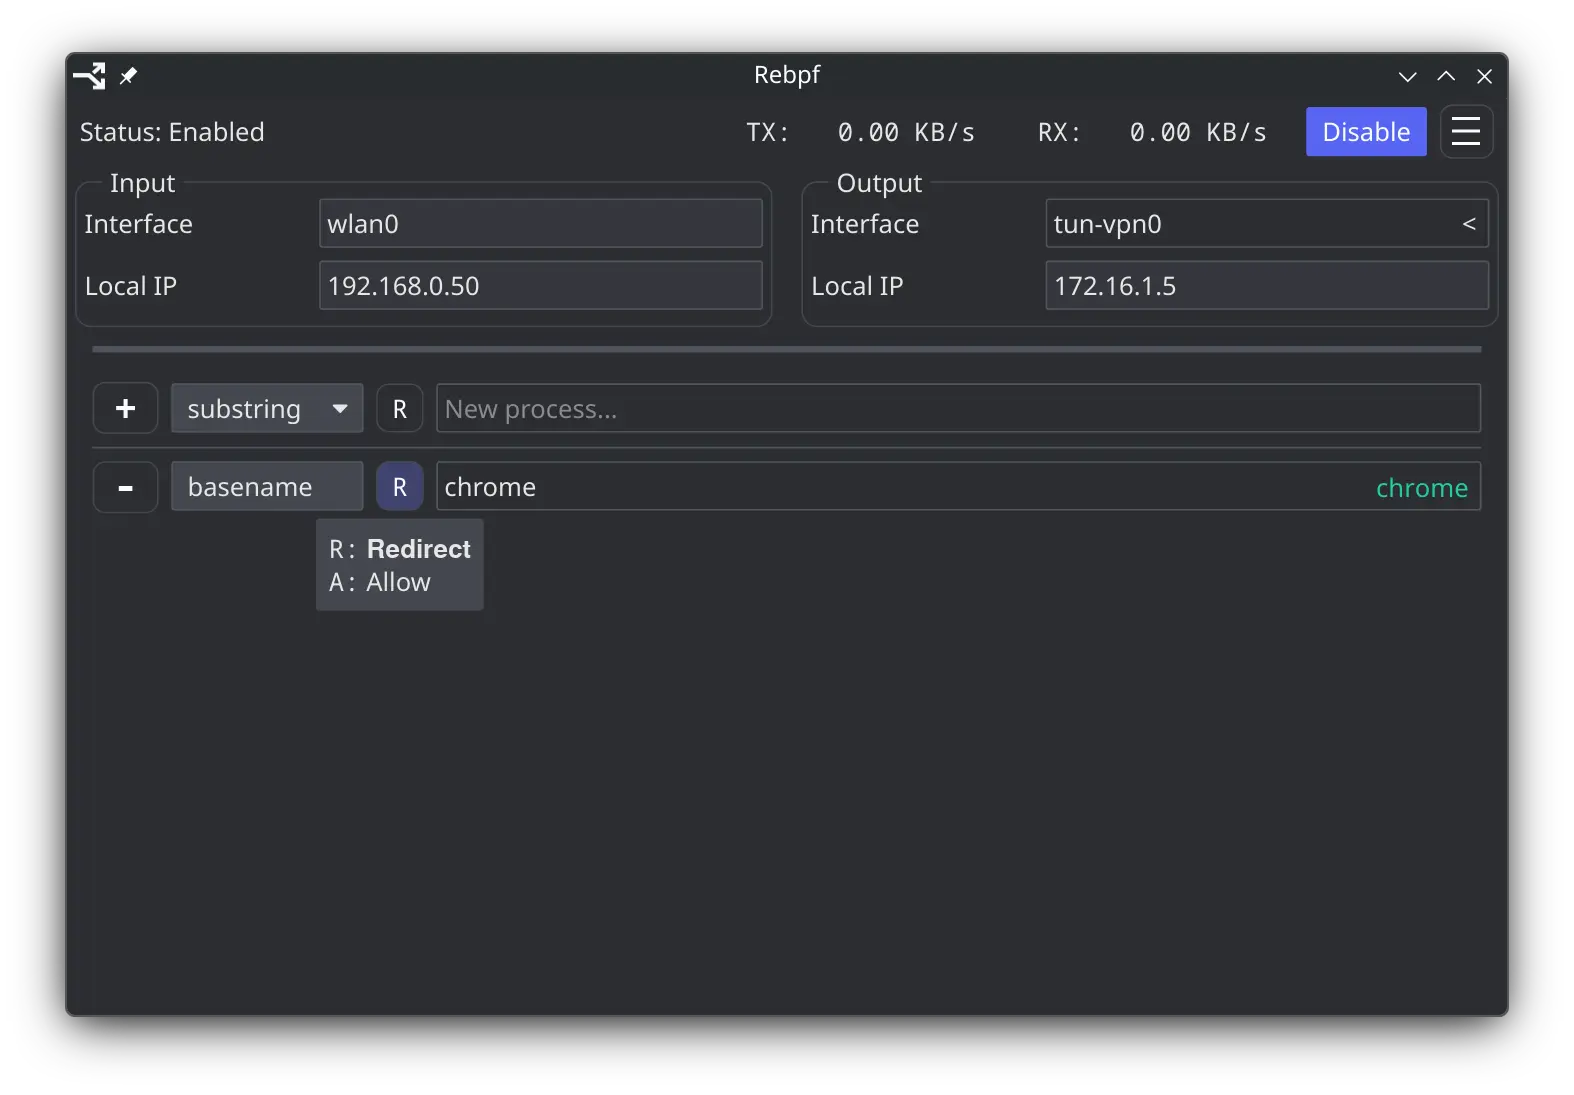
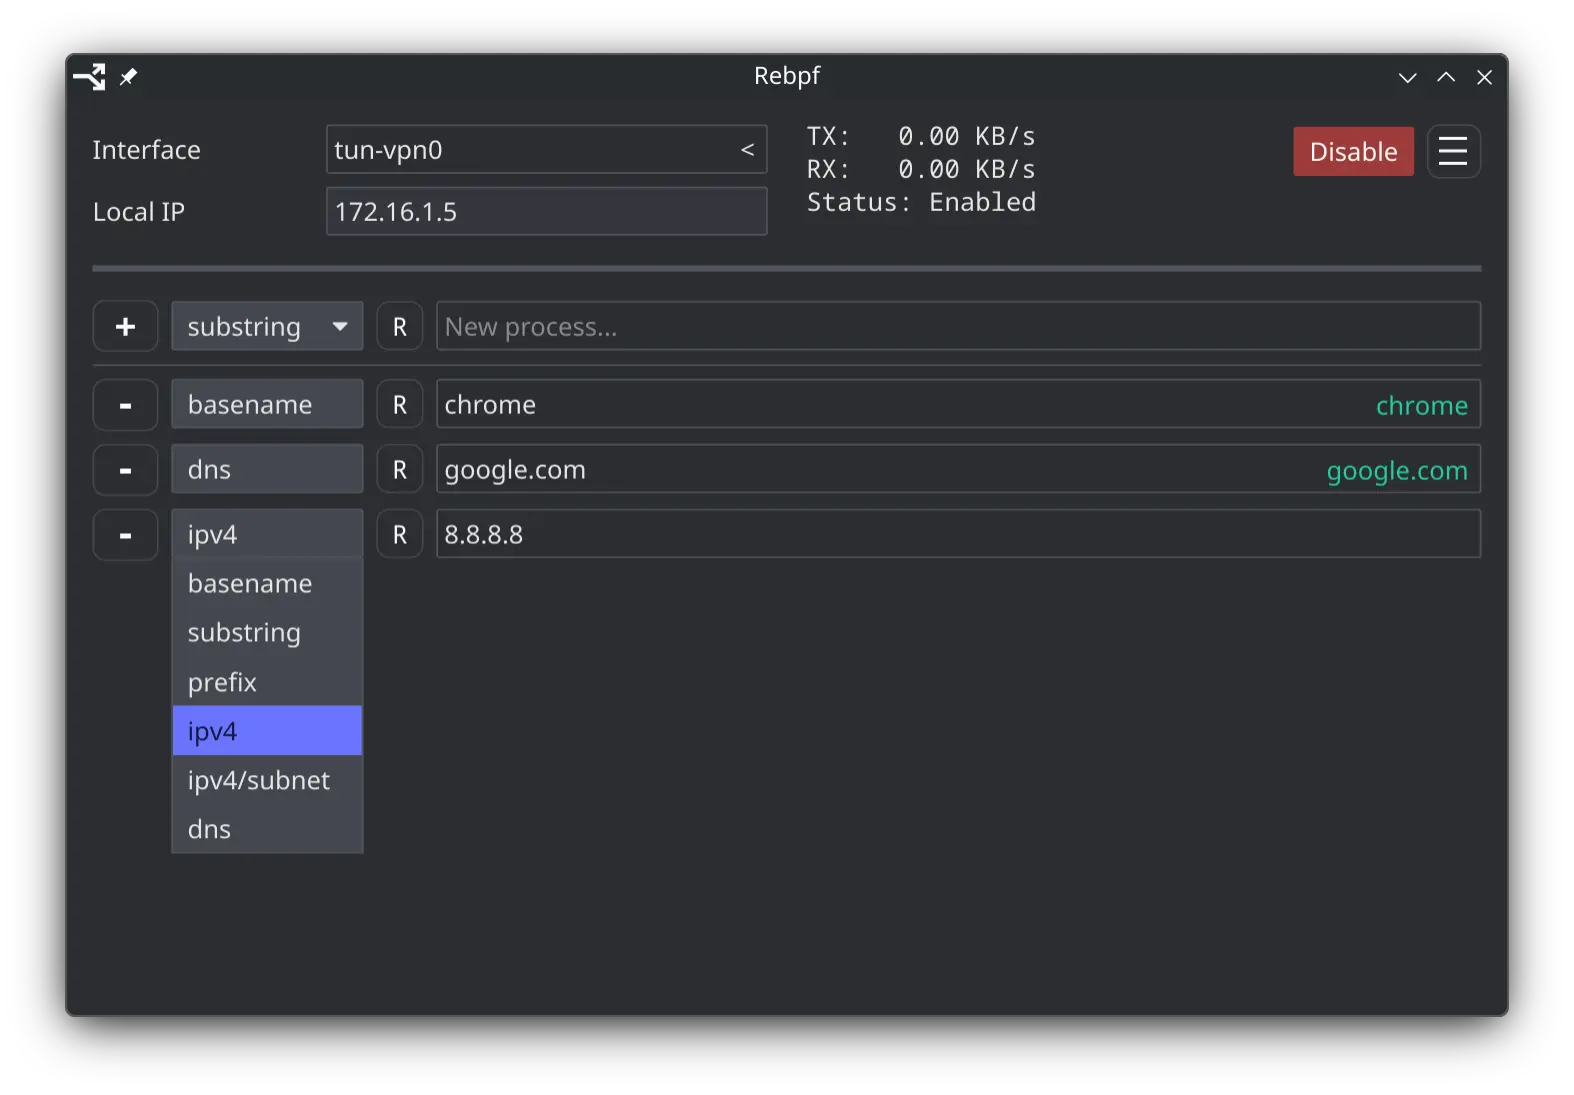
Update readme

Changed region(s): [[0.0311, 0.0932, 0.9339, 0.7763], [0.716, 0.0932, 0.9339, 0.1863], [0.6537, 0.0932, 0.6849, 0.1242]]

diff --git a/README.md b/README.md
@@ -9,7 +9,8 @@
 
 ## Features
 
-- Redirect traffic of specific applications to a specific interface, e.g. in or around a VPN.
+- Redirect traffic of a specific applications, IP or DNS address to a specific
+interface, e.g. in or around a VPN.
 - Without affecting the network configuration of any other program.
 - Instantly changing settings through the GUI app, no need to restart your apps!
 - Using D-Bus interface for integrations and CLI.
@@ -100,68 +101,48 @@ sweep existing sockets using [`iter/task_file`].
 [`cgroup/sock_create`]: https://docs.ebpf.io/linux/program-type/BPF_PROG_TYPE_CGROUP_SOCK
 [`iter/task_file`]: https://docs.ebpf.io/linux/program-type/BPF_PROG_TYPE_TRACING
 
-Once we've obtained a socket, the most convenient method to redirect traffic
-would be to use socket marks to tell the existing kernel routing code to
-redirect it to where it needs to go. A privileged userspace application can set
-a 32bit SO_MARK on its socket which in turn could be matched dedicated firewall
-rules or routing tables, allowing routing such packet via a dedicated
-interface. Stateful connection tracking is already there, needed for the
-correct treatment of ingress packets.
+Once we have a socket, the most convenient method to redirect traffic is to
+tell the existing kernel code to do it. A privileged userspace application can
+set an arbitrary 32bit [SO_MARK] on its sockets which in turn could be picked
+up by dedicated firewall and routing rules. In this case, stateful connection
+tracking, needed to correctly associate the ingress packets with the socket, is
+already done by the kernel.
 
-But there is a problem. We can't just set a mark for an arbitrary userspace
-program's socket from an eBPF program (or even from a userspace daemon). As you
-already know, eBPF programs are only allowed to modify kernel state in places
-where the program type is explicitly allows it to. And, unfortunately, as of
-Linux 7.0 eBPF programs can only set marks on TCP sockets for already existing
-sockets, missing out on UDP and raw IP sockets, used by ping command to send
-ICMP messages, which is unacceptable.
+[SO_MARK]: https://www.man7.org/linux/man-pages/man7/socket.7.html
 
-Instead of marking a socket, we could try marking individual packets leaving a
-socket, as they still can be traced to the originating socket. Unfortunately,
-again, all the hooks on this path are either triggered after a route has
-already been selected by Netfilter, or barred from modifying any socket state
-like [Netfilter hook].
+During normal operation the eBPF program can set socket marks on a newly
+created sockets using [bpf_setsockopt()] available to [`cgroup/sock_create`]
+programs. While during startup or after a change in configuration, it can
+iterate over all the opened sockets using [`iter/task_file`] and send matched
+process's info to the userspace daemon which can use [pidfd_getfd(2)] syscall
+to set a mark on an already existing socket.
 
-[netfilter hook]: https://docs.ebpf.io/linux/program-type/BPF_PROG_TYPE_NETFILTER
+[bpf_setsockopt()]: https://docs.ebpf.io/linux/helper-function/bpf_setsockopt/
+[pidfd_getfd(2)]: https://www.man7.org/linux/man-pages/man2/pidfd_getfd.2.html
 
-Thus, the we have to resort to redirecting packets ourselves, which is ugly and
-error prone as we have to patch up payloads of l2 (ethernet src/dst mac), l3
-(ip src/dst addresses, checksum), and even l4 (udp and tcp checksums). While
-being unable to use kernel connection state tracking (conntrack), and ARP
-neighbor discovery.
+The network configuration is dynamic. When a network device disappears, its
+routing entries are removed automatically and need to be reconfigured when the
+device reappears. Linux notifies userspace of the changes in network
+configuration using multicast netlink. The daemon listens to these changes to
+know when to update the routing rules, especially when Rebpf is configured to
+allow LAN connectivity and has to actively mirror the state of the main routing
+table for selected processes.
 
-So far our program pipeline looks as follows:
+IP-based redirection is straightforward, the daemon simply creates the
+corresponding routing entries for them. Matching DNS addresses is more
+involved. When it's required, eBPF program checks ingress packets using
+[`tcx/ingress`] program and copies ones that look like originating from a DNS
+resolver into the userspace for processing. The daemon does the parsing and
+maintains the corresponding routing entries.
 
-- [`syscall`] - Read configuration from userspace, prune the list of tracked sockets.
-- [`iter/task_file`] - Sweep through all open sockets and check the processes holding it.
-- [`tcx/egress`] - Redirect all egress traffic from the tracked sockets to another user-specified interface.
-- [`tcx/ingress`] - Same thing, but redirect ingress traffic.
-
-[`syscall`]: https://docs.ebpf.io/linux/program-type/BPF_PROG_TYPE_SYSCALL
-[`iter/task_file`]: https://docs.ebpf.io/linux/program-type/BPF_PROG_TYPE_TRACING
-[`tcx/egress`]: https://docs.ebpf.io/linux/program-type/BPF_PROG_TYPE_SCHED_ACT
 [`tcx/ingress`]: https://docs.ebpf.io/linux/program-type/BPF_PROG_TYPE_SCHED_ACT
-
-To actually redirect a packet it's not enough to know only the interface name.
-We have to also keep track of a route it's going to take. For an egress
-interface, i.e. the interfaces with the default internet connection, the
-required parameters are: ifindex, mac address (l2), ip address (l3), and a mac
-address of the next hop, i.e. a mac address of a router. And similarly for the
-ingress device.
-
-Moreover, all of these attributes can and will change during the normal
-operation, for example, simply disconnecting your device from a network would
-remove the output device. Linux notifies userspace of such changes using
-multicast netlink messages. We track changes in: interfaces, ip adresses, and
-mac addresses of neighboring devices.
-
-A Rebpf daemon watches these changes and updates the eBPF program with new
-configuration when needed.
 
 </details>
 
 
 ## Installation
+
+Rebpf requires Linux kernel v7.0 or later.
 
 - Manual
   ```sh
@@ -204,6 +185,7 @@ configuration when needed.
 
 ## Contributing
 
+- `RUST_LOG=debug` or `--verbose` enables debug-logging.
 - All required dev packages are collected in [./shell.nix], run `nix-shell` to
 fetch them.
 - When ran manually, [./rebpf/build-loader.sh] builds the eBPF program in
@@ -212,13 +194,65 @@ fetch them.
 verifier accepts it.
 - The nix package requires `./Cargo.nix` to be kept in sync with `Cargo.lock`
 using [crate2nix], see [./scripts/update.sh].
-- Build with `--features=bpf-trace` to enable debug output in
+- Build with `--features=bpf-trace` to enable eBPF debug output in
 `/sys/kernel/debug/tracing/trace_pipe`.
 
 [./shell.nix]: ./shell.nix
 [./rebpf/build-loader.sh]: ./rebpf/build-loader.sh
 [crate2nix]: https://github.com/nix-community/crate2nix
 [./scripts/update.sh]: ./scripts/update.sh
+
+Rebpf manipulates [ip-rule(8)] and [ip-route(8)] entries to redirect traffic.
+Here's a quick fish script to display a combined view of all routing rules with
+the corresponding tables in order of decreasing priority.
+
+[ip-rule(8)]: https://www.man7.org/linux/man-pages/man8/ip-rule.8.html
+[ip-route(8)]: https://www.man7.org/linux/man-pages/man8/ip-route.8.html
+
+<details>
+<summary>Script. <i>Click to unfold.</i></summary>
+
+```fish
+#!/usr/bin/env fish
+
+function ipr
+    set -l visited_tables
+
+    echo "Routing entries in order of decreasing priority"
+    ip $argv rule list | while read -Ll line
+        set -l table_id (string replace -r ".*\s" "" -- $line)
+        set -a visited_tables $table_id
+        set -l prio (string replace -r ":.*" "" -- $line)
+        set -l rule (string replace -r "^\S*:\s*" "" -- $line | string replace -r "\s*lookup\s*\S*\$" "")
+        echo
+        echo PRIO: $prio, RULE: $rule, TABLE: $table_id
+        switch $table_id
+            case unicast blackhole unreachable prohibit nat
+                echo $table_id
+            case "*"
+                ip -color=always $argv route show table $table_id
+        end | while read -Ll line
+            echo "    $line"
+        end
+    end
+
+    ip $argv route show table all | while read -Ll line
+        set -l table_id (string replace -fr "(.* )?table (\S+)( .*)?" "\$2" -- $line)
+        switch $table_id
+            case "" $visited_tables
+                continue
+        end
+        set -a visited_tables $table_id
+        echo
+        echo ORPHANED TABLE: $table_id
+        ip -color=always $argv route show table $table_id | while read -Ll line
+            echo "    $line"
+        end
+    end
+end
+```
+
+</details>
 
 ## License
 